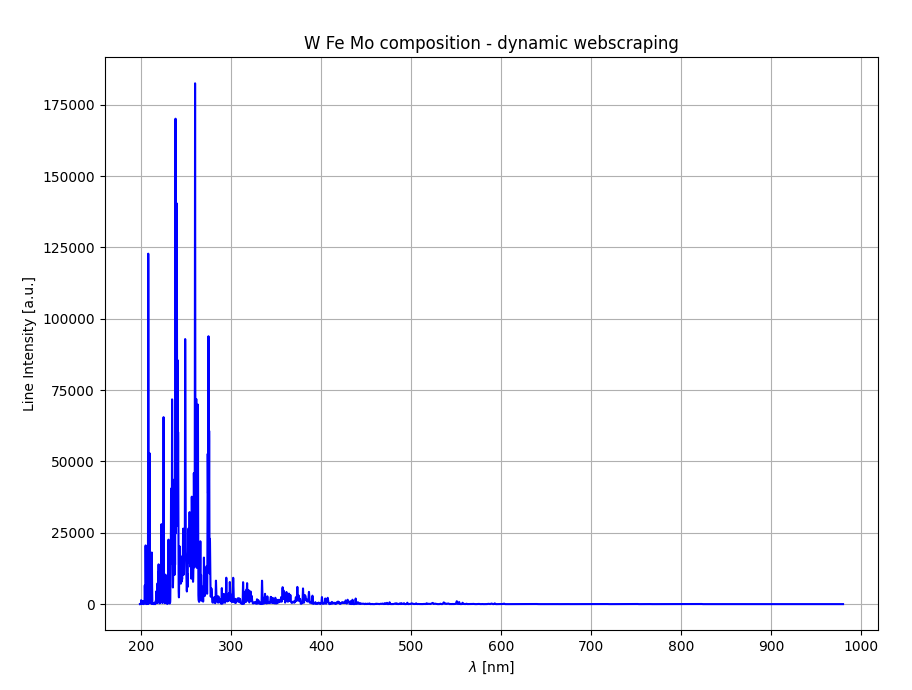
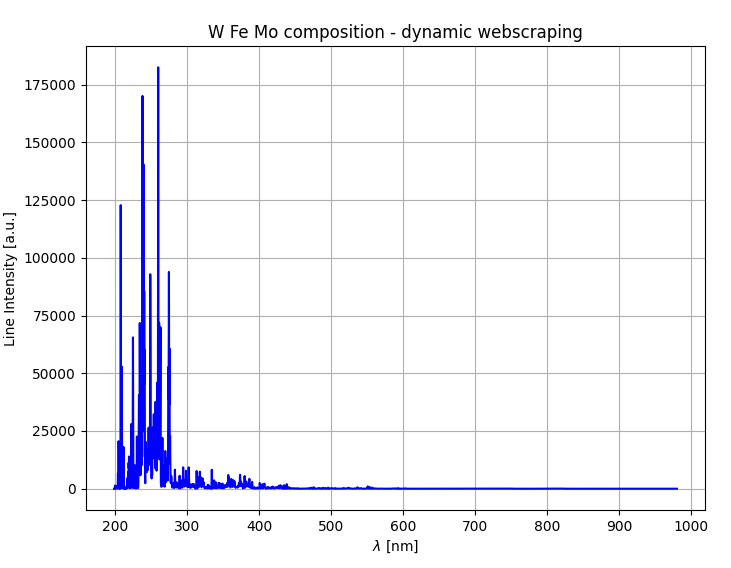
added new images

Changed region(s): [[0.0, 0.0299, 0.9631, 0.9877], [0.0903, 0.838, 0.1204, 0.8979]]

diff --git a/SimulatedLIBS/simulation.py b/SimulatedLIBS/simulation.py
@@ -257,7 +257,7 @@ class SimulatedLIBS(object):
 
 if __name__ == '__main__':
     libs = SimulatedLIBS(Te=1.0, Ne=10 ** 17, elements=['W', 'Fe', 'Mo'], percentages=[50, 25, 25],
-                                    resolution=1000, low_w=200, upper_w=1000, max_ion_charge=3, webscraping='static')
-    libs.plot(color='blue', title='W Fe Mo composition - static webscraping')
+                                    resolution=1000, low_w=200, upper_w=1000, max_ion_charge=3, webscraping='dynamic')
+    libs.plot(color='blue', title='W Fe Mo composition - dynamic webscraping')
     plt.show()
 
